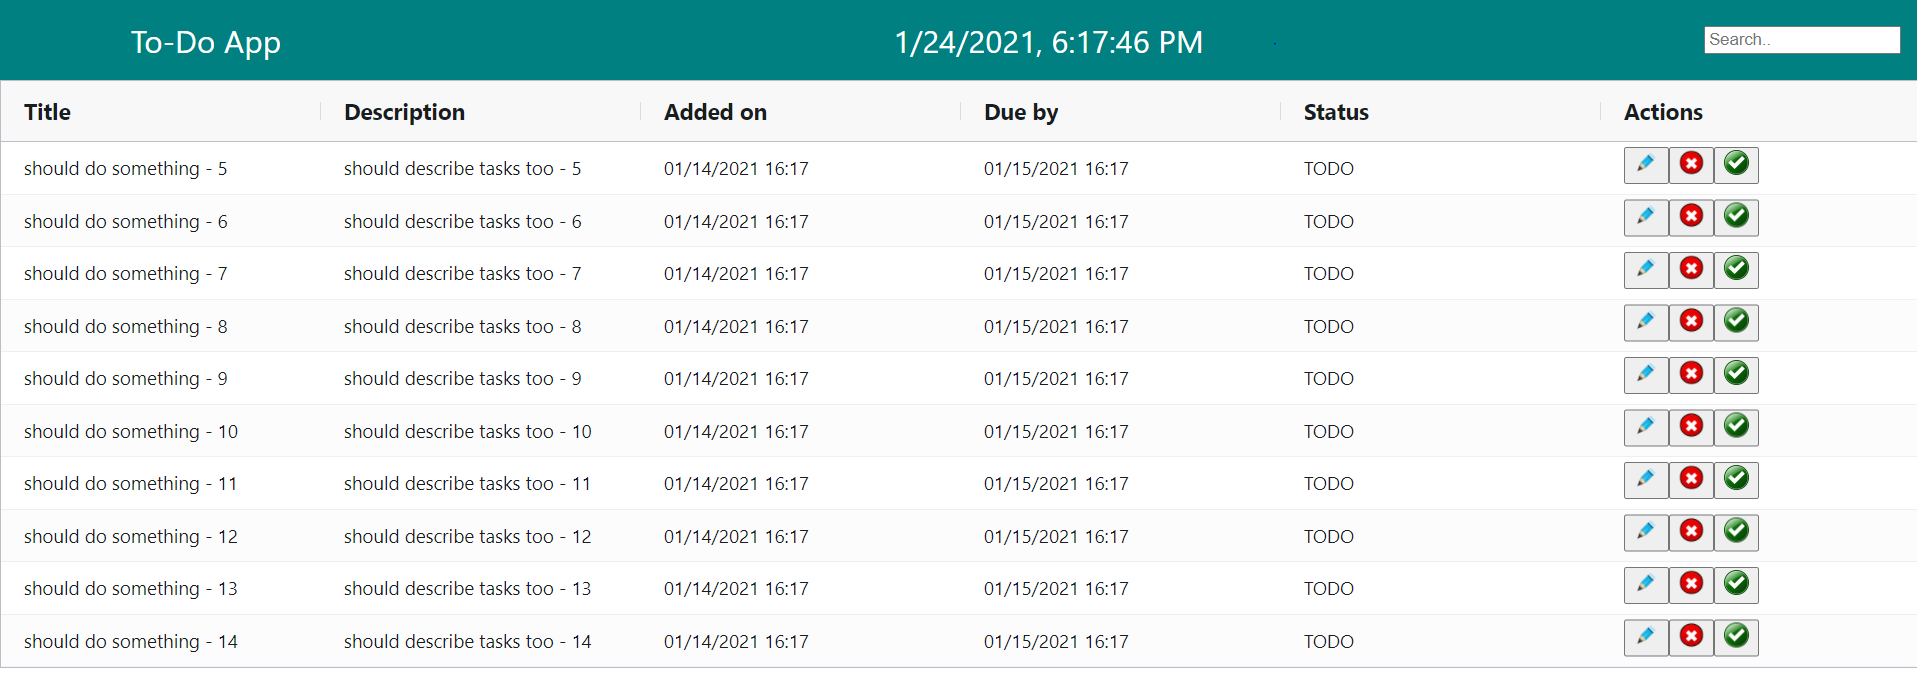
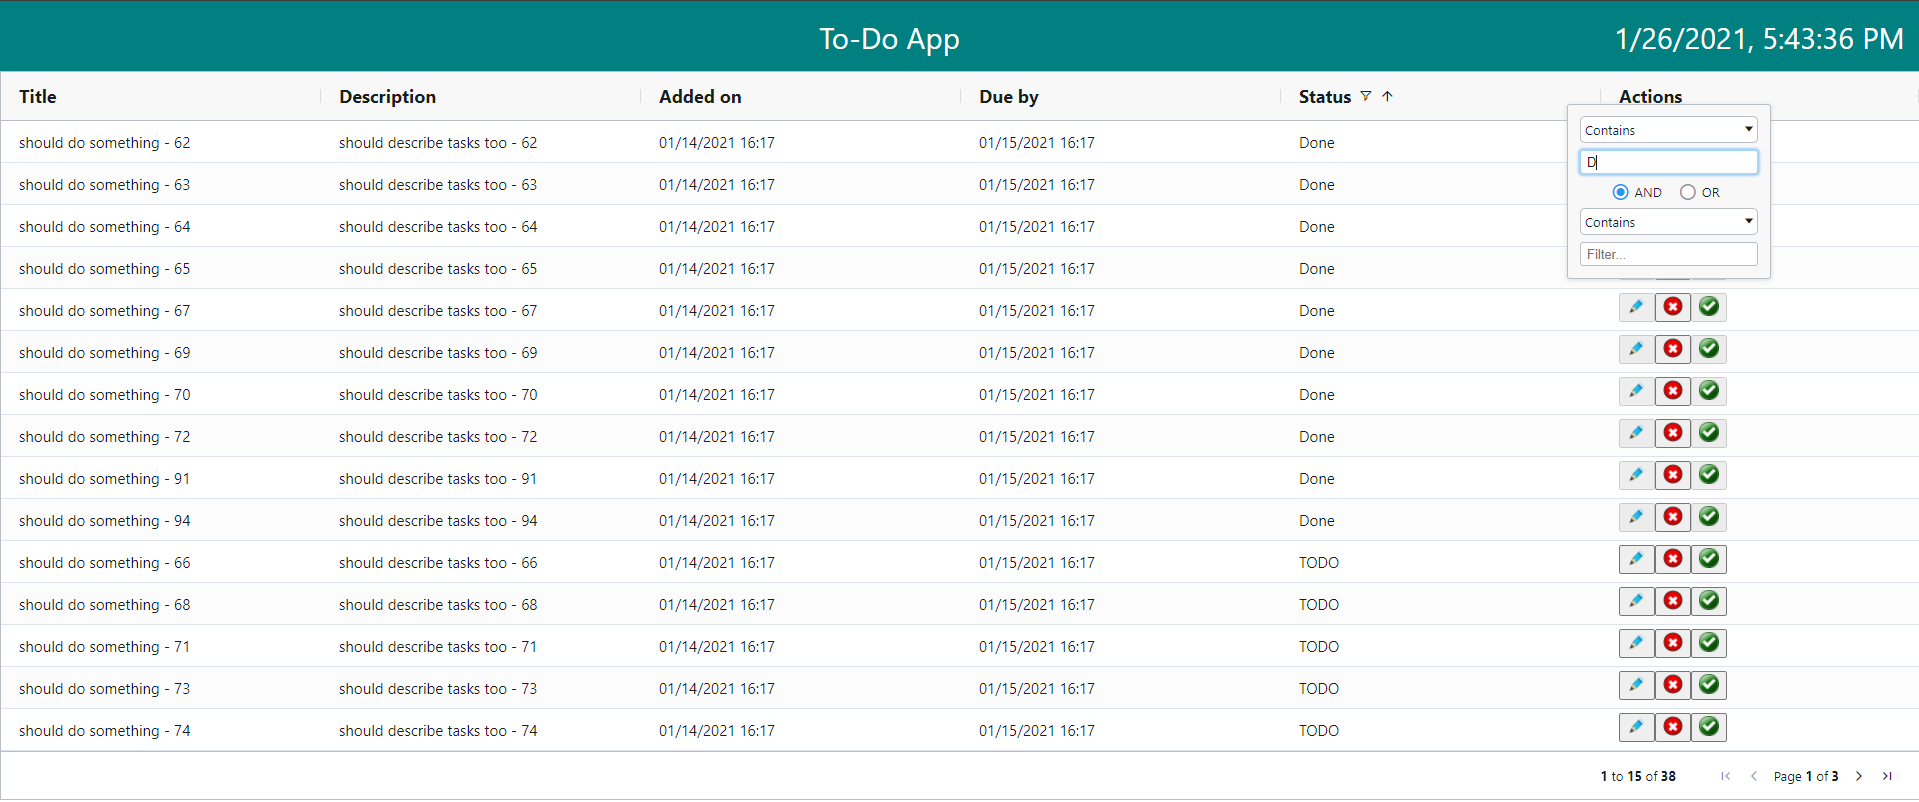
Removing search button for column-wise search * updating preview image

diff --git a/src/js/App.js b/src/js/App.js
@@ -18,7 +18,6 @@ export default class App extends Component {
                 <div className="App-header">
                     <div className="To-Do"> To-Do App </div>
                     <div className="Time-Block"> {this.state.currTime} </div>
-                    <input className="Search" type="text" placeholder="Search.." />
                 </div>
                 <TaskGrid/>
             </>

diff --git a/src/css/App.css b/src/css/App.css
@@ -12,15 +12,11 @@
 }
 
 .To-Do {
-    width: 20%;
-    text-align: center;
+    width: 50%;
+    text-align: right;
 }
 
 .Time-Block {
-    width: 70%;
-    text-align: center;
-}
-
-.Search {
-    width: 10%;
+    width: 50%;
+    text-align: right;
 }
